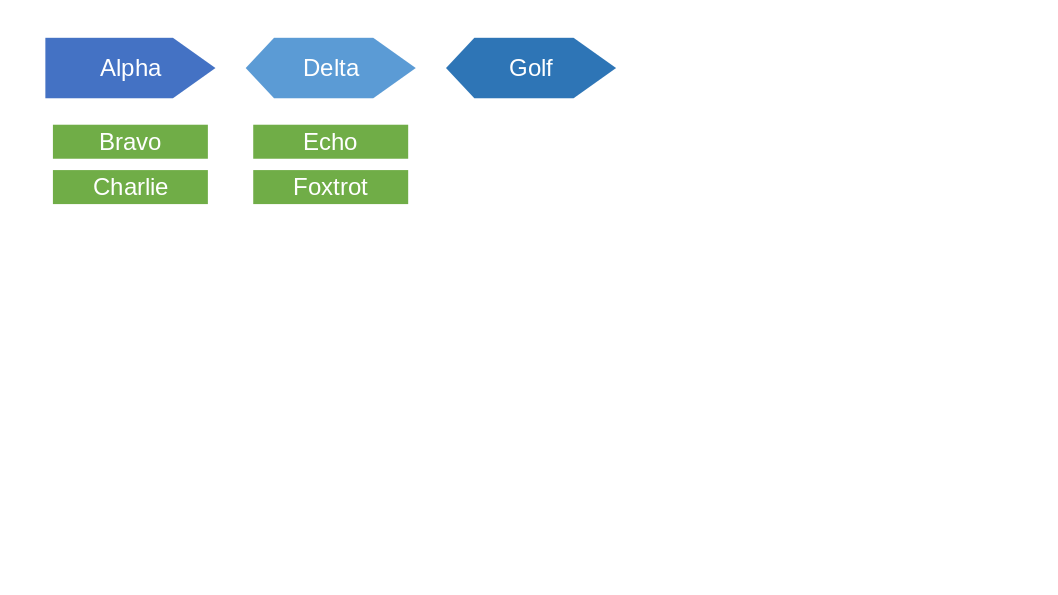
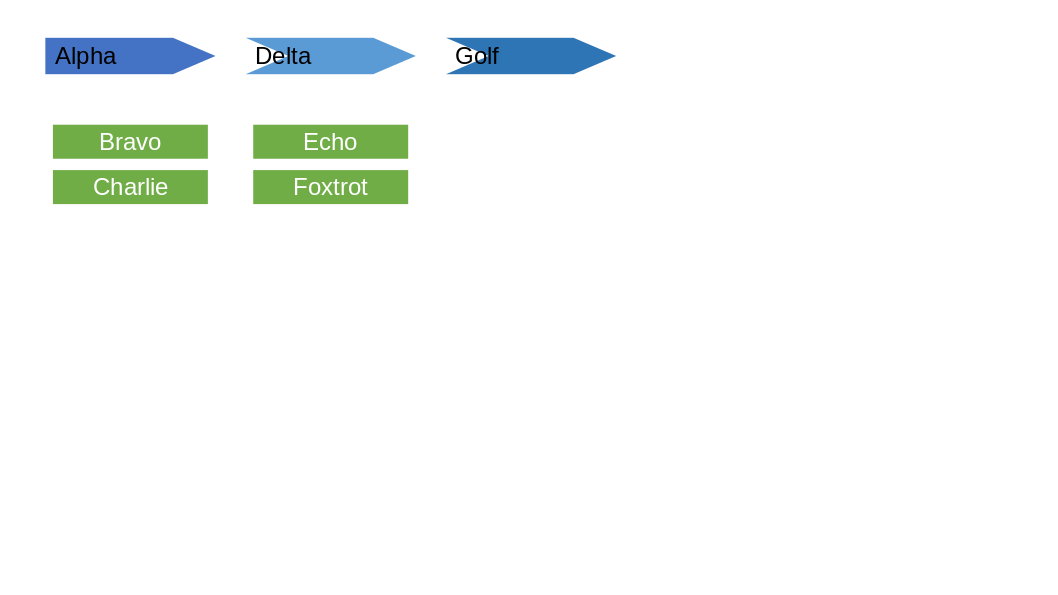
Fix screenshot probe to use CustomShape chevrons matching the Java renderer
screenshot_probe.py still used PolyPolygonShape (hand-drawn polygons) after
SlideRenderer was updated to CustomShape. Replace add_polygon with
add_chevron_shape which uses attribute-assignment on CustomShapeGeometry —
the same path that makes Java's statically-typed PropertyValue[] work.

Also drop the white text-colour override on chevron shapes: the notch area
is transparent so white text on the white slide background is invisible,
causing "Delta"→"elta" and "Golf"→"lf" clipping. Default (black) text is
readable over both the filled body and the transparent notch region.

Changed region(s): [[0.0312, 0.0605, 0.5926, 0.1815]]

diff --git a/uno-tests/probes/screenshot_probe.py b/uno-tests/probes/screenshot_probe.py
@@ -97,16 +97,28 @@ def add_ellipse(doc, page, x, y, w, h, label, color=BLUE):
     return s
 
 
-def add_polygon(doc, page, pts, label, color=BLUE):
-    s = doc.createInstance("com.sun.star.drawing.PolyPolygonShape")
+def add_chevron_shape(doc, page, x, y, w, h, kind, label, color=BLUE):
+    """Create a LibreOffice built-in chevron/pentagon CustomShape.
+    kind: 'pentagon-right' (first step) or 'chevron' (subsequent steps).
+    Attribute assignment carries the correct UNO type tag for
+    CustomShapeGeometry — same mechanism as Java's statically-typed array.
+    Text colour is left as default (black) so it is visible even in the
+    transparent notch area of a chevron.
+    """
+    from com.sun.star.beans import PropertyValue as PV
+    s = doc.createInstance("com.sun.star.drawing.CustomShape")
     page.add(s)
-    s.PolyPolygon = (tuple(pts),)
+    s.setSize(sz(w, h))
+    s.setPosition(pt(x, y))
+    pv = PV(); pv.Name = "Type"; pv.Value = kind
+    s.CustomShapeGeometry = (pv,)
     try:
         s.setString(label)
     except Exception:
         pass
     solid_fill(s, color)
-    text_color(s, 0xFFFFFF)
+    # No text_color override: let LibreOffice auto-colour so text is readable
+    # in both the filled body and the transparent notch area.
     return s
 
 
@@ -119,17 +131,6 @@ def add_connector(doc, page, start_shape, end_shape):
     c.setPropertyValue("EndGluePointIndex", -1)
     c.setPropertyValue("LineColor", GREY)
     return c
-
-
-def pentagon_pts(x, y, w, h):
-    t = w // 4
-    return [pt(x, y), pt(x+w-t, y), pt(x+w, y+h//2), pt(x+w-t, y+h), pt(x, y+h)]
-
-
-def chevron_pts(x, y, w, h):
-    t = w // 4; n = w // 6
-    return [pt(x+n, y), pt(x+w-t, y), pt(x+w, y+h//2), pt(x+w-t, y+h),
-            pt(x+n, y+h), pt(x, y+h//2)]
 
 
 def export_png(doc, path):
@@ -150,12 +151,12 @@ def draw_sequential_chevron(doc, page):
     sub_w, sub_h = W - 400, 900
 
     steps = [
-        (MARGIN,                   1000, "Alpha",  pentagon_pts, ["Bravo", "Charlie"], BLUE),
-        (MARGIN + W + GAP,         1000, "Delta",  chevron_pts,  ["Echo", "Foxtrot"],  BLUE2),
-        (MARGIN + 2*(W + GAP),     1000, "Golf",   chevron_pts,  [],                   BLUE3),
+        (MARGIN,               1000, "Alpha", "pentagon-right", ["Bravo", "Charlie"], BLUE),
+        (MARGIN + W + GAP,     1000, "Delta", "chevron",        ["Echo", "Foxtrot"],  BLUE2),
+        (MARGIN + 2*(W + GAP), 1000, "Golf",  "chevron",        [],                   BLUE3),
     ]
-    for x, y, label, pts_fn, subs, color in steps:
-        add_polygon(doc, page, pts_fn(x, y, W, H), label, color)
+    for x, y, label, kind, subs, color in steps:
+        add_chevron_shape(doc, page, x, y, W, H, kind, label, color)
         sy = y + H + 700
         for sl in subs:
             add_rect(doc, page, x + 200, sy, sub_w, sub_h, sl, GREEN)